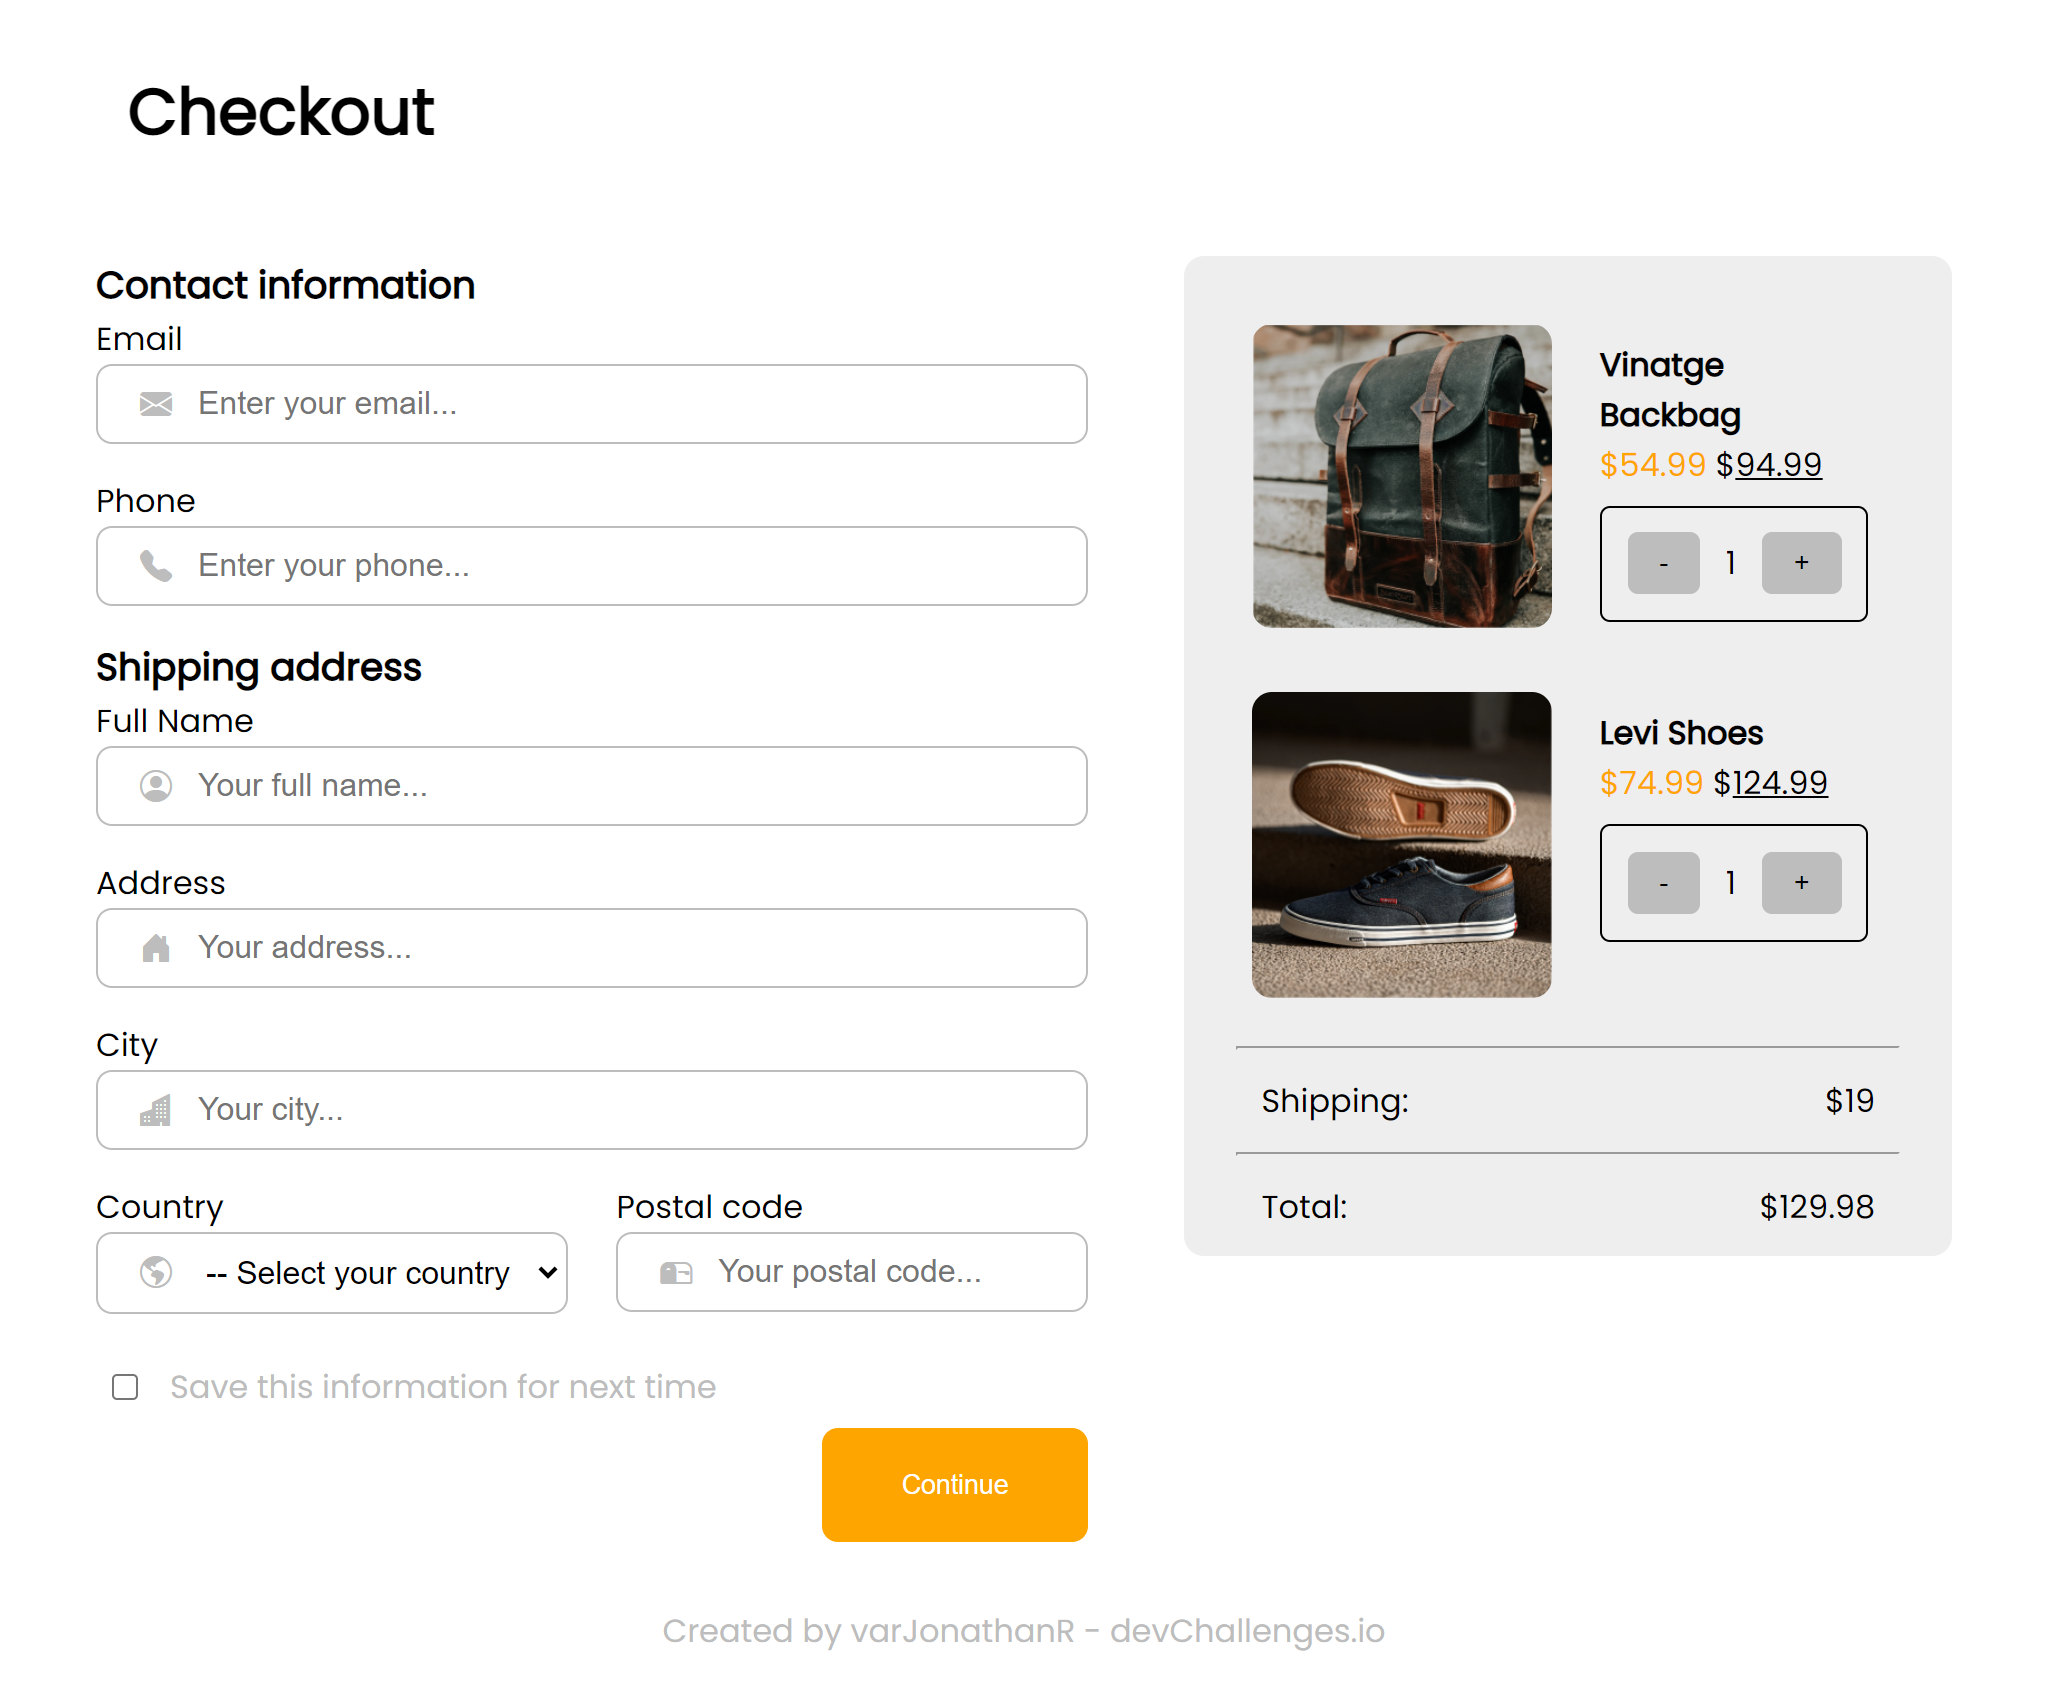
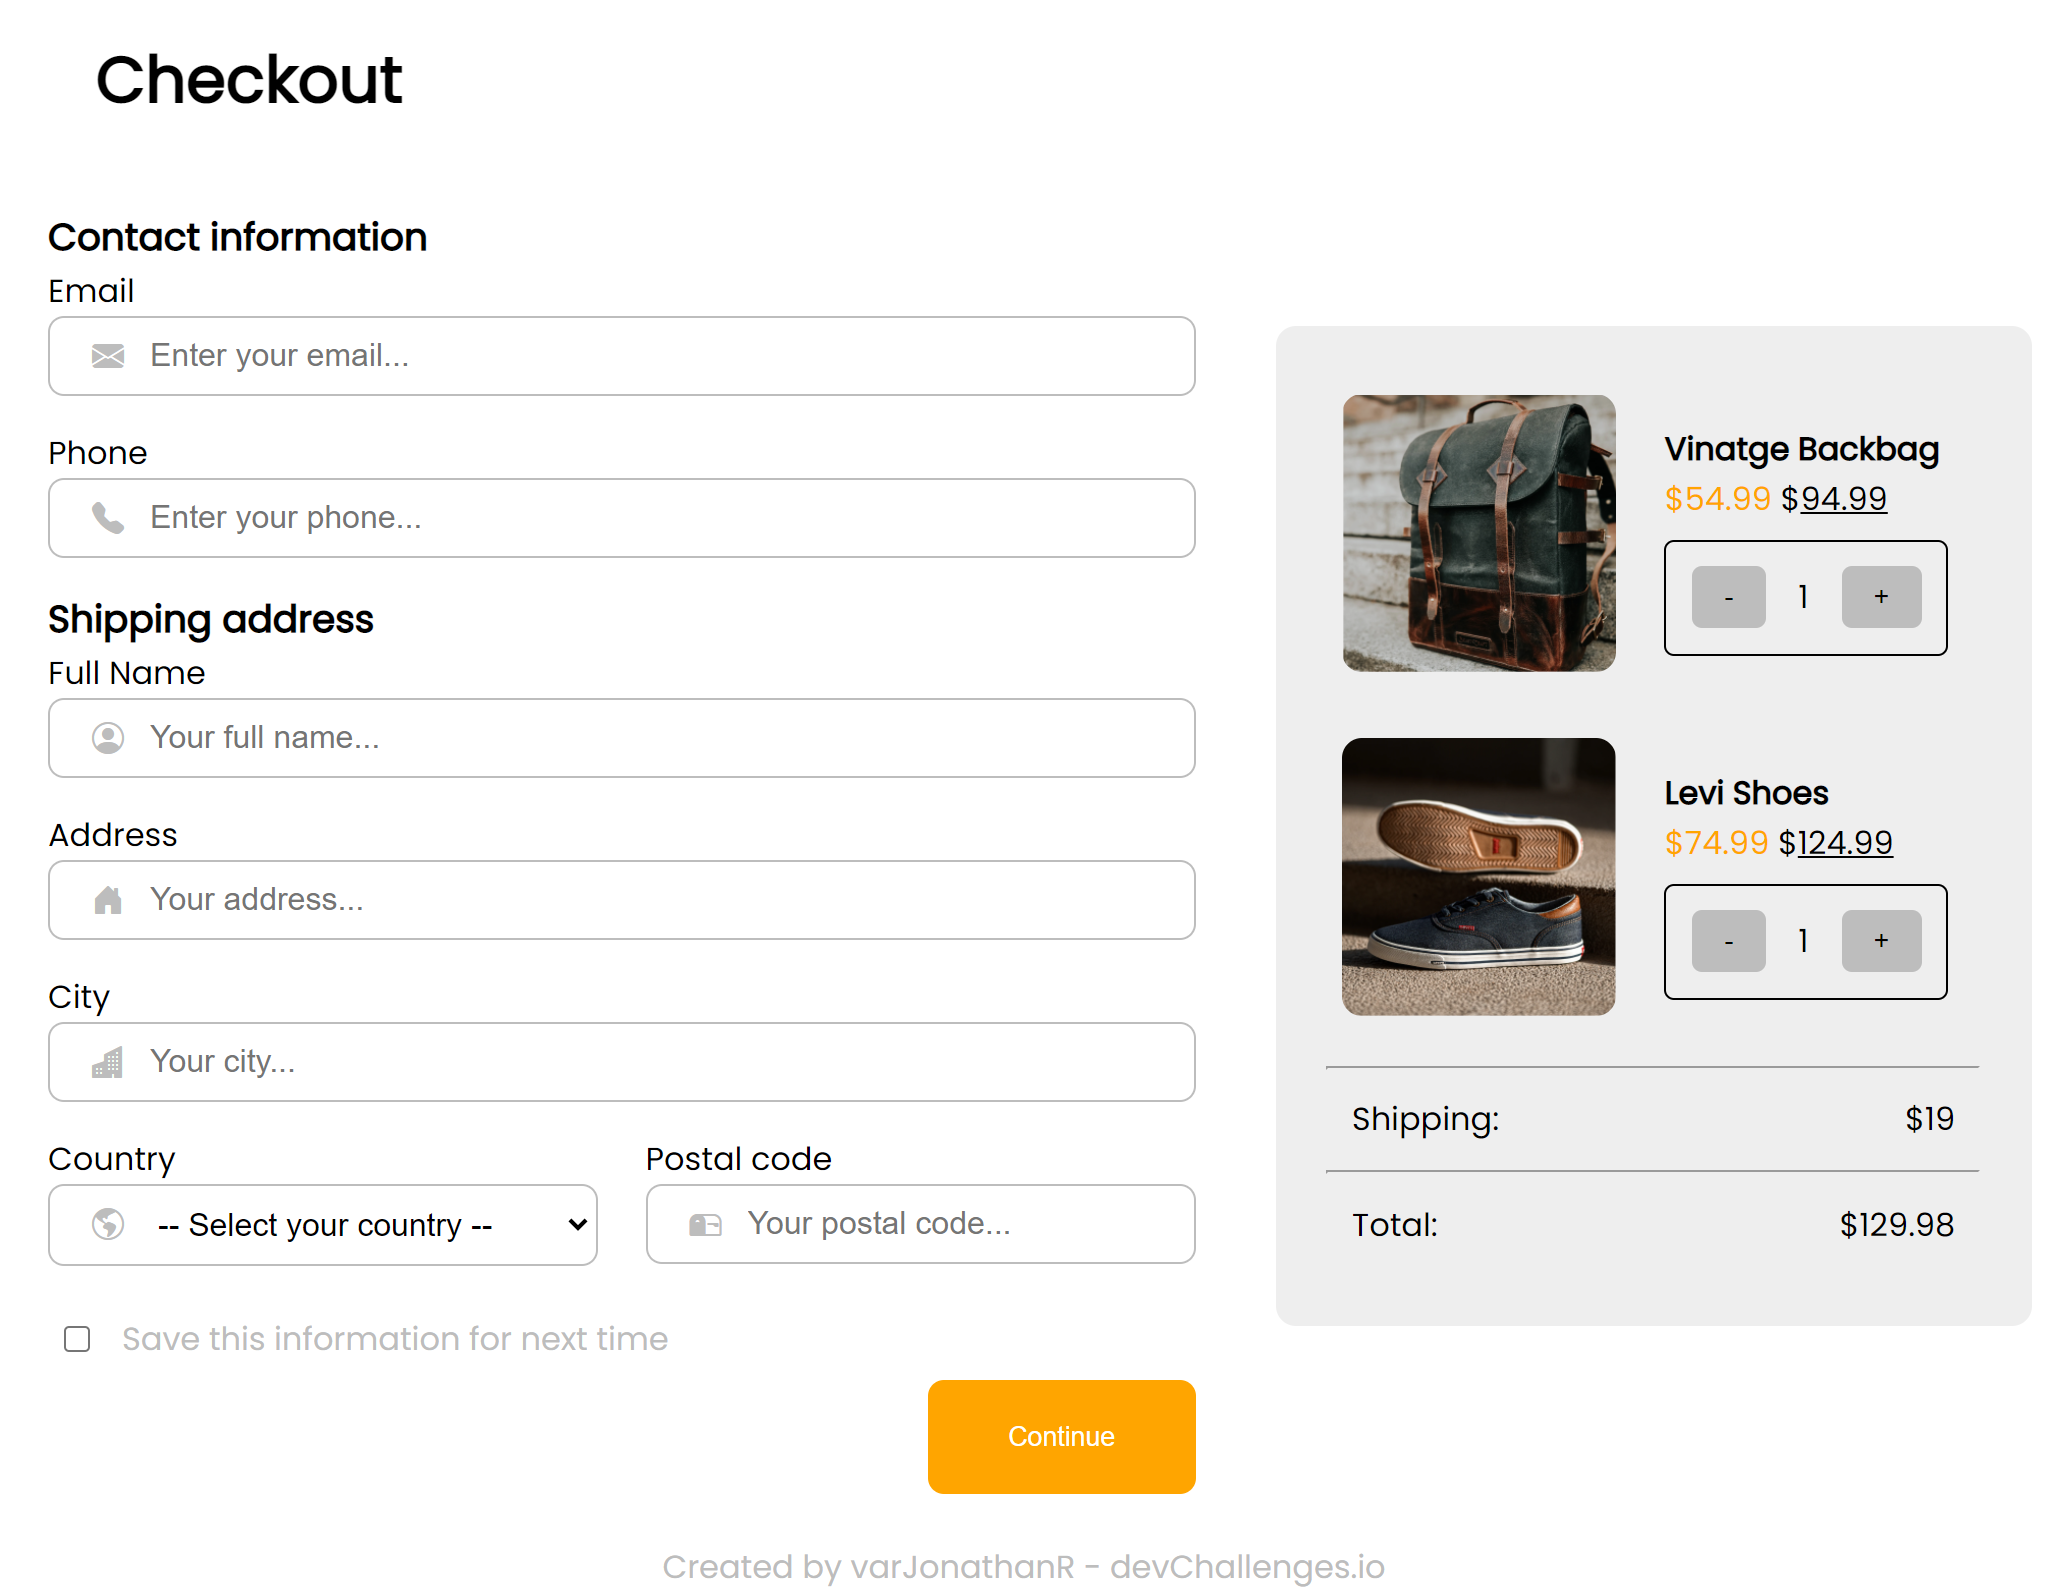
Layout code romodel

diff --git a/src/App.scss b/src/App.scss
@@ -5,25 +5,19 @@ header{
 }
 
 body{
-    padding: 1rem;
     .main{
         display: flex;
-        margin: 1rem;
-        padding: 1rem;
+        flex-direction: column-reverse;
+        justify-content: center;
+        align-items: center;
+        padding: .5rem;
         &-form{
             width: 100%;
-            margin-right: 3rem;
             form{
                 .field-group{
                     width: 100%;
                     position: relative;
                     margin-bottom: 1rem;
-                    &:focus{
-                        border-color: var(--secondary-color);
-                        .field-group-icon{
-                            color: var(--secondary-color);
-                        }
-                    }
                     &-input{
                         width: 100%;
                         outline: 0;
@@ -83,12 +77,15 @@ body{
         }
 
         &-shop{
+            margin-bottom: 1.5rem;
+            max-width: 400px;
+            width: 100%;
             &-card{
                 background-color: var(--light-gray);
                 padding: 1.6rem;
                 @include BorderRadius(10px);
                 width: 100%;
-                height: 500px;
+                height: auto;
                 .text-inline{
                     display: flex;
                     align-items: center;
@@ -99,15 +96,19 @@ body{
                     display: flex;
                     padding: .5rem;
                     margin-bottom: .6rem;
+                    align-items: center;
                     .img{
                         img{
                             @include BorderRadius(10px);
-                            width: 150px;
+                            max-width: 150px;
+                            width: 100%;
+                            height: auto;
                         }
                     }
                     &-info{
                         padding: .5rem;
-                        margin-left: 1rem ;
+                        margin-left: 1rem;
+                        width: 55%;
                         .price{
                             color: var(--tertiary-color);
                             font-weight: 550;
@@ -126,7 +127,7 @@ body{
                                 padding: .5rem 1rem;
                             }
                             span{
-                                padding: 0 .8rem;
+                                padding: 0 1rem;
                             }
                         }
                     }
@@ -144,49 +145,15 @@ footer{
     }
 }
 
-@media screen and (max-width: 767px) {
-    .main{
-        flex-direction: column-reverse;
-        justify-content: center;
-        padding: .4rem;
-        margin: .4rem;
-        &-form{
-            margin-top: 3rem;
-            form{
-                width: 95%;
-            }
-        }
-        &-shop{
-            padding-left: .2rem;
-            width: 420px;
-            &-card{
-                height: 500px;
-            }
-        }
-    }
-}
-
-@media screen and (max-width: 560px) {
-    .main{
-        &-form{
-            width: 100%;
-            margin-top: 3rem;
-            form{
-                width: 95%;
-            }
-        }
-        &-shop{
-            padding-left: .2rem;
-            width: 400px;
-            &-card{
-                height: 500px;
-                .item{
-                    .img{
-                        img{
-                            width: 100px;
-                        }
-                    }
-                }
+@media screen and (min-width: 1024px) {
+    body{
+        .main{
+            display: grid;
+            grid-template-columns: 1.6fr 1fr;
+            gap: 1.5rem;
+            place-items: center;
+            &-form{
+                padding: 1rem;
             }
         }
     }
